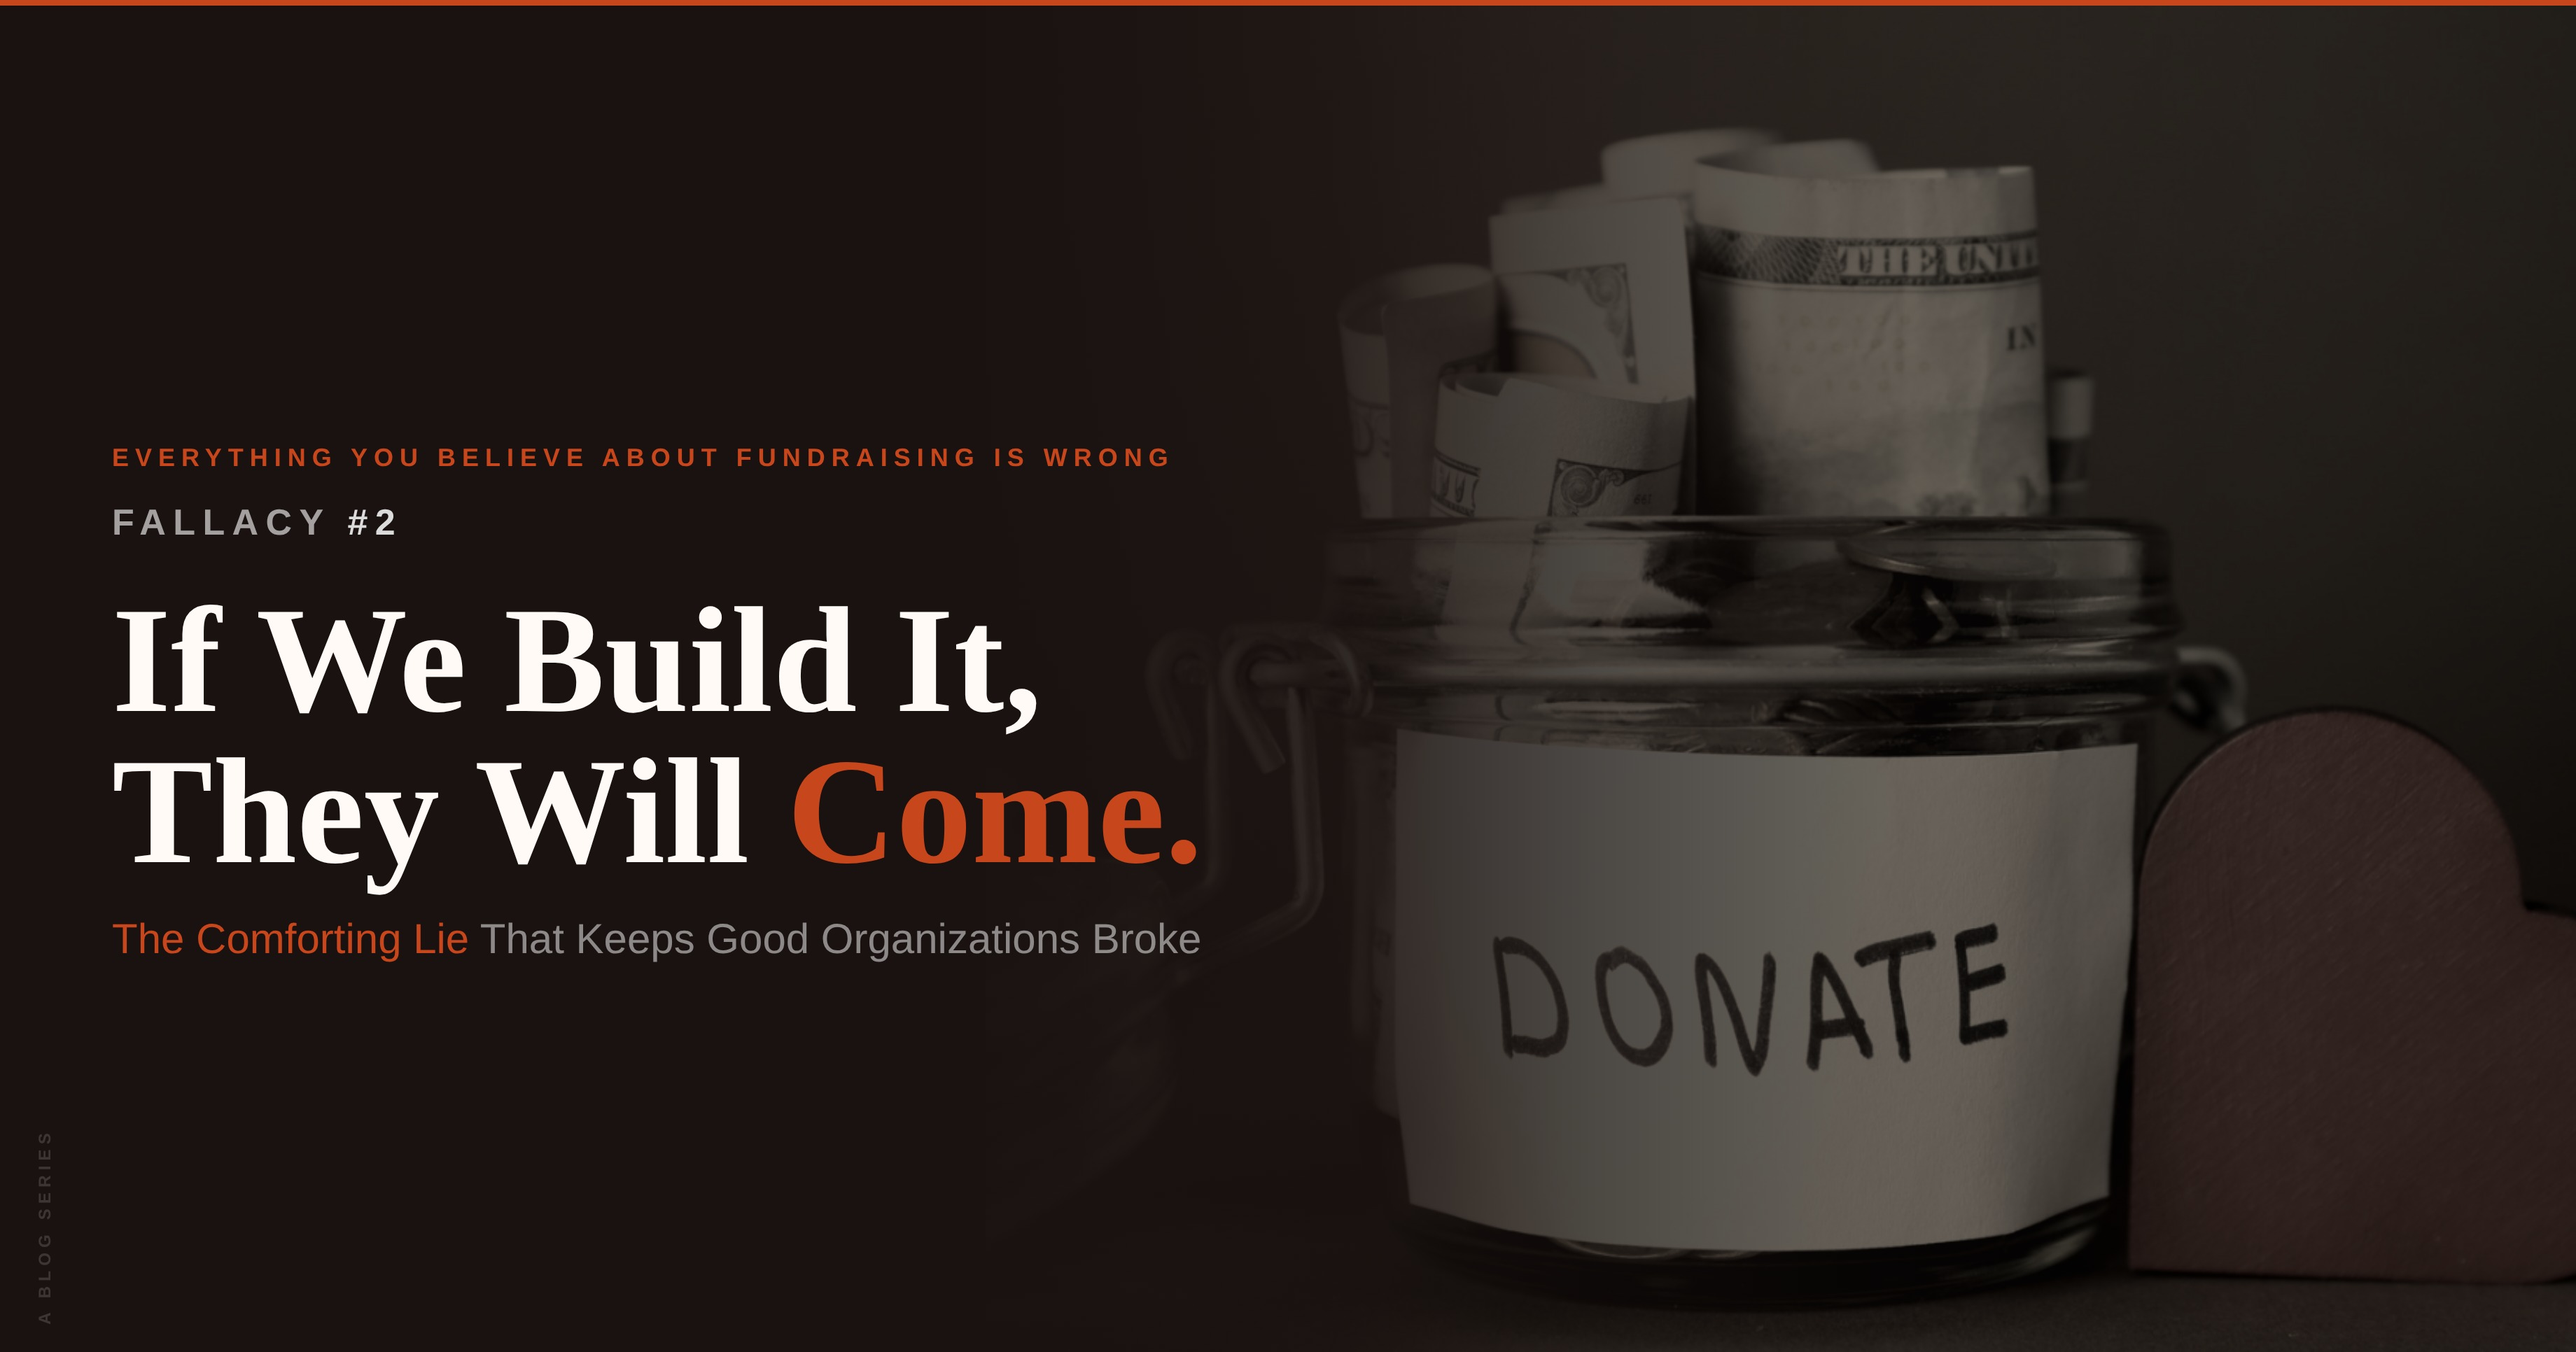
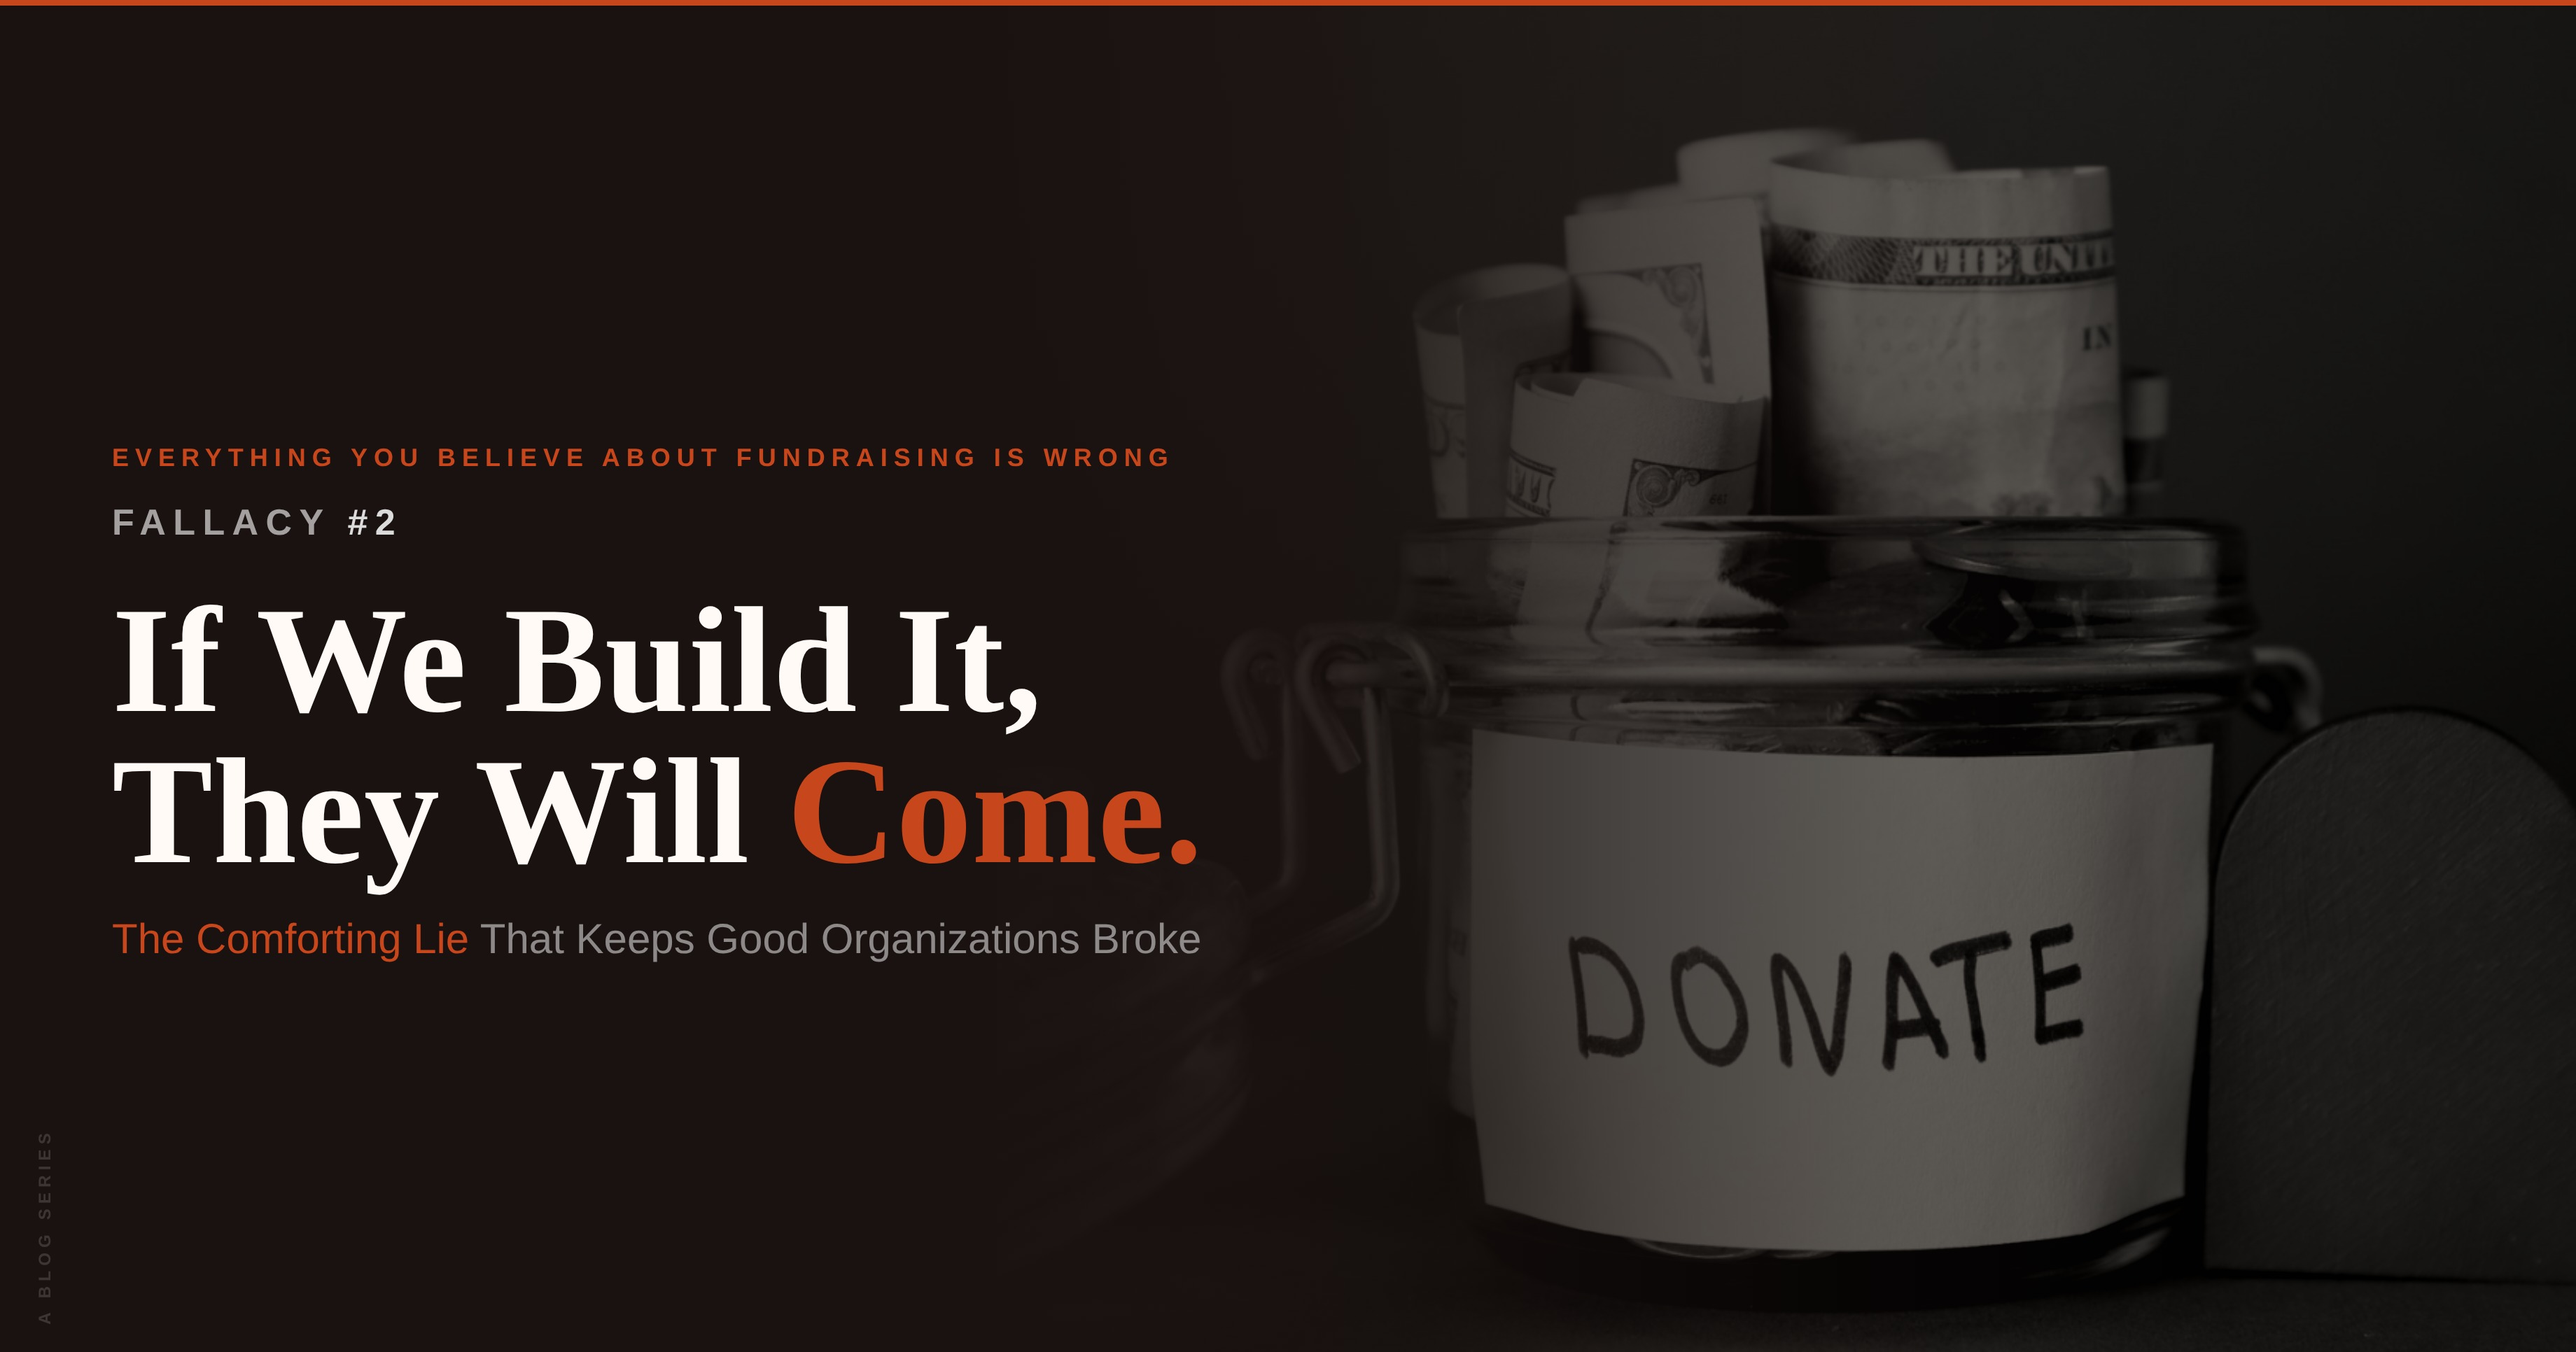
Fix three typos in blog post #2 and update header image
Typo fixes: "helps explains" → "helps explain", "SEP fields works"
→ "SEP field works", "tempted feel" → "tempted to feel".

Updated header image with heavier greyscale treatment and tighter
crop to match series visual style.

Changed region(s): [[0.5312, 0.0932, 0.9062, 0.9627], [0.6562, 0.528, 0.6875, 0.559], [0.5312, 0.2484, 0.5625, 0.2795]]

diff --git a/Website/blog/if-we-build-it.html b/Website/blog/if-we-build-it.html
@@ -460,9 +460,9 @@
 
     <p>You might be wondering: Why is asking necessary? Why don't people just give when they see good work being done? Shouldn't they feel <em>compelled</em> to give?</p>
 
-    <p>Well, no. And one of my favourite scenes from <em>The Hitchhiker's Guide to the Galaxy</em> helps explains why.</p>
+    <p>Well, no. And one of my favourite scenes from <em>The Hitchhiker's Guide to the Galaxy</em> helps explain why.</p>
 
-    <p>In it, Douglas Adams describes an invisibility technology called the "Somebody Else's Problem field," or SEP field for short. This SEP fields works by exploiting a quirk of human psychology: if something is somebody else's problem, people simply don't see it. The SEP field doesn't <em>actually</em> make an object invisible. It just makes the brain conclude that whatever it's looking at is not its concern, and therefore not worth noticing. And so people don't see it.</p>
+    <p>In it, Douglas Adams describes an invisibility technology called the "Somebody Else's Problem field," or SEP field for short. This SEP field works by exploiting a quirk of human psychology: if something is somebody else's problem, people simply don't see it. The SEP field doesn't <em>actually</em> make an object invisible. It just makes the brain conclude that whatever it's looking at is not its concern, and therefore not worth noticing. And so people don't see it.</p>
 
     <p>Creating an SEP field, Adams writes, is "much simpler and more effective" than actual invisibility, and "can be run for over a hundred years on a single torch battery."</p>
 
@@ -488,7 +488,7 @@
 
     <p>Orchestras, theatres, choirs, dance companies, and galleries tend to attract leaders who are passionate about artistic excellence, and profoundly uncomfortable with fundraising. Many of them genuinely believe that a great performance or a stunning exhibition should, by itself, generate the financial support needed to keep the doors open.</p>
 
-    <p>Their audience members may share this assumption. A patron who hasn't been informed about the economic realities of their favourite arts group, and who pays $40 for a concert ticket, may be tempted feel they've done their part. They showed up. They paid. They clapped.</p>
+    <p>Their audience members may share this assumption. A patron who hasn't been informed about the economic realities of their favourite arts group, and who pays $40 for a concert ticket, may be tempted to feel they've done their part. They showed up. They paid. They clapped.</p>
 
     <p>Here's the reality: ticket sales at most performing arts organizations cover between 30% and 60% of operating costs. The <a href="https://startupfinancialprojection.com/blogs/capex/performing-arts" target="_blank" rel="noopener">Theatre Communications Group</a> reports that its member theatres derive roughly half their income from the box office. For many smaller organizations, the number is closer to a third. The rest has to come from somewhere: individual donations, grants, corporate sponsorships. Without that contributed revenue, the organization simply cannot survive.</p>
 
